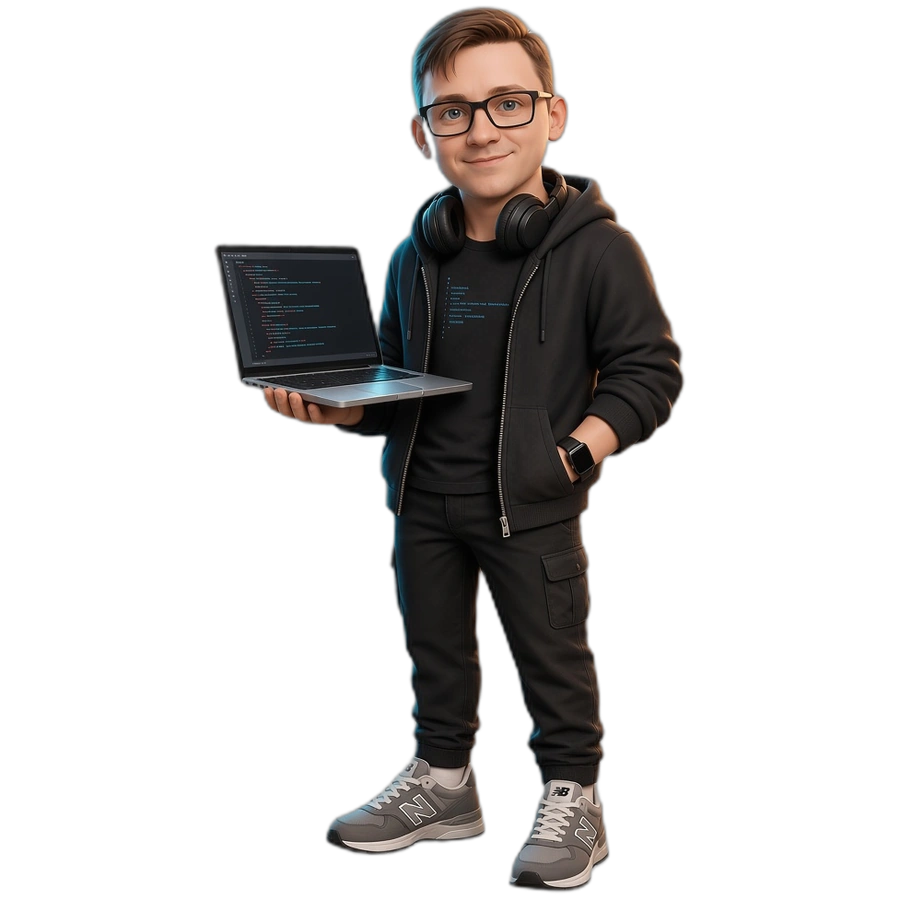
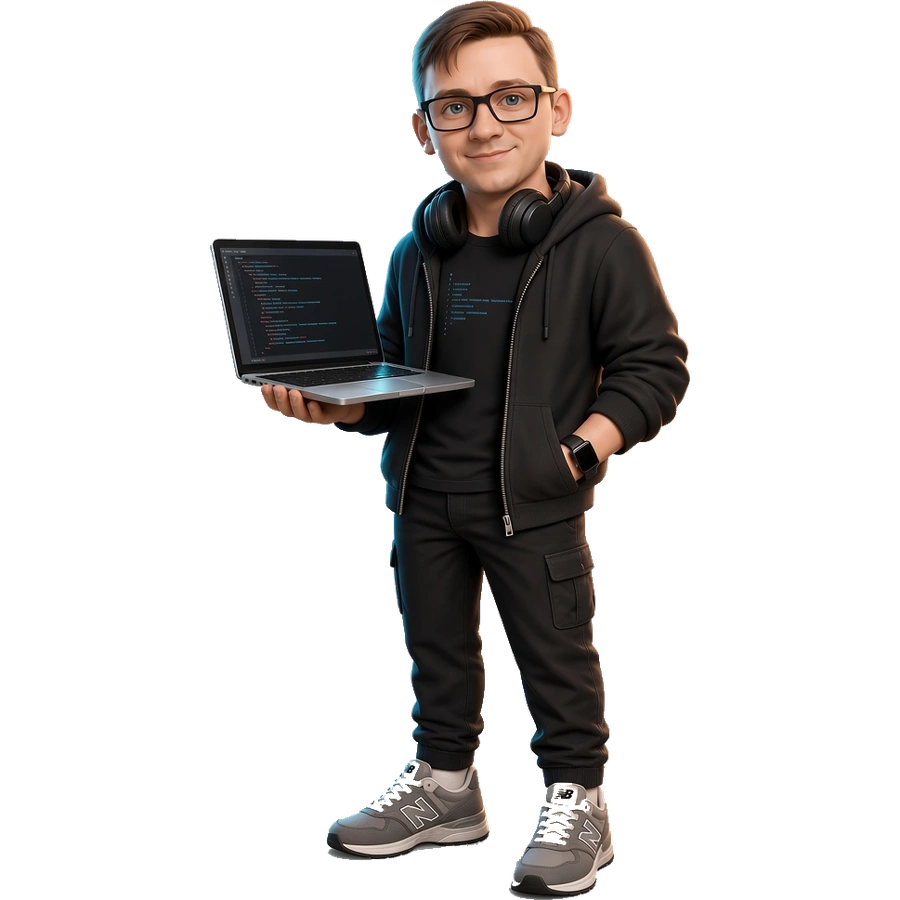
Replace mascot with clean-face render, gray-bg cutout only.

diff --git a/src/components/HeroStage.tsx b/src/components/HeroStage.tsx
@@ -8,7 +8,7 @@ export function HeroStage() {
       {/* eslint-disable-next-line @next/next/no-img-element */}
       <img
         className="hero-mascot"
-        src="/mascot/mascot-base.webp?v=gen-clean1"
+        src="/mascot/mascot-base.webp?v=face-clean3"
         alt=""
         width={900}
         height={900}
